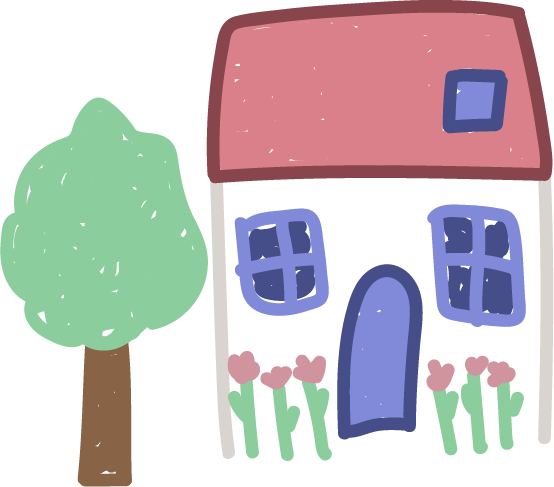
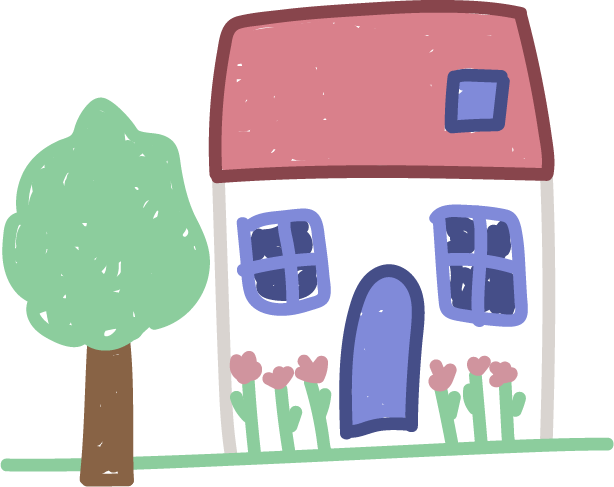
all

diff --git a/css/global.css b/css/global.css
@@ -18,3 +18,26 @@ body {
   letter-spacing: 0.01ch;
   opacity: 1;
 }
+
+header {
+  height: 140px;
+  position: relative;
+  overflow: hidden;
+}
+
+header .house {
+  position: absolute;
+  bottom: 0;
+  left: 10px;
+}
+
+header .grass {
+  height: 9.78px;
+  position: absolute;
+  bottom: 2px;
+  left: 160px;
+  right: 2px;
+  background-image: url(/images/pouchgrass.svg);
+  background-repeat: repeat-x;
+  background-size: 500px 9.78px;
+}
